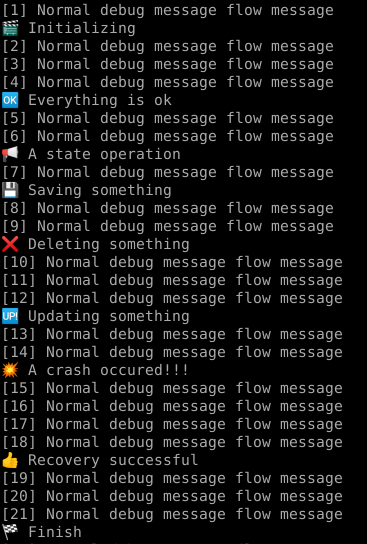
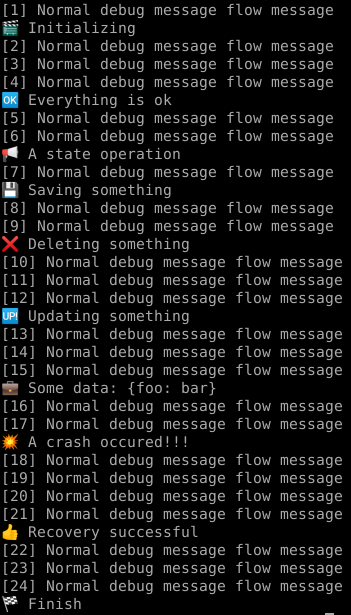
Improve example and screenshot

diff --git a/example/lib/main.dart b/example/lib/main.dart
@@ -25,6 +25,10 @@ void main() {
   _printLines(3);
   debug.update("Updating something");
   _printLines(2);
+  _printLines(1);
+  final data = {"foo": "bar"};
+  debug.data(data, "some data");
+  _printLines(2);
   debug.crash("A crash occured!!!");
   _printLines(4);
   debug.recovery("Recovery successful");
